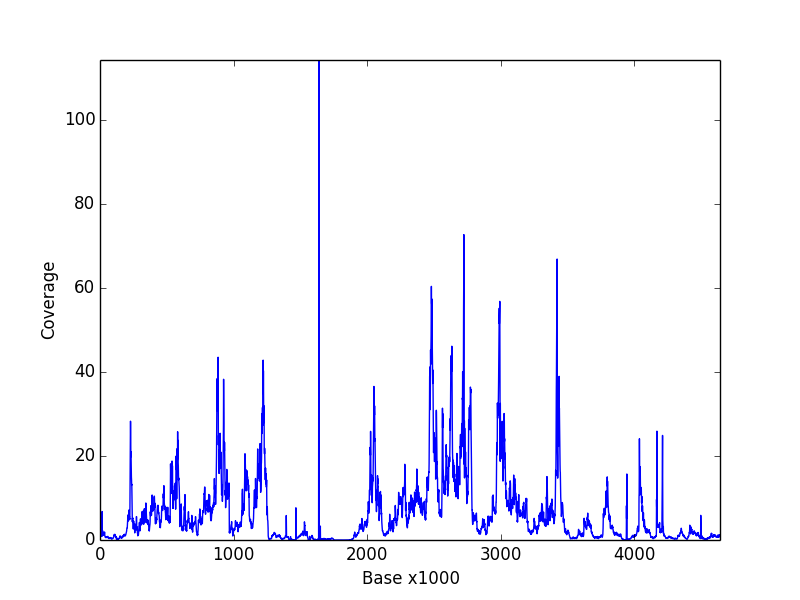
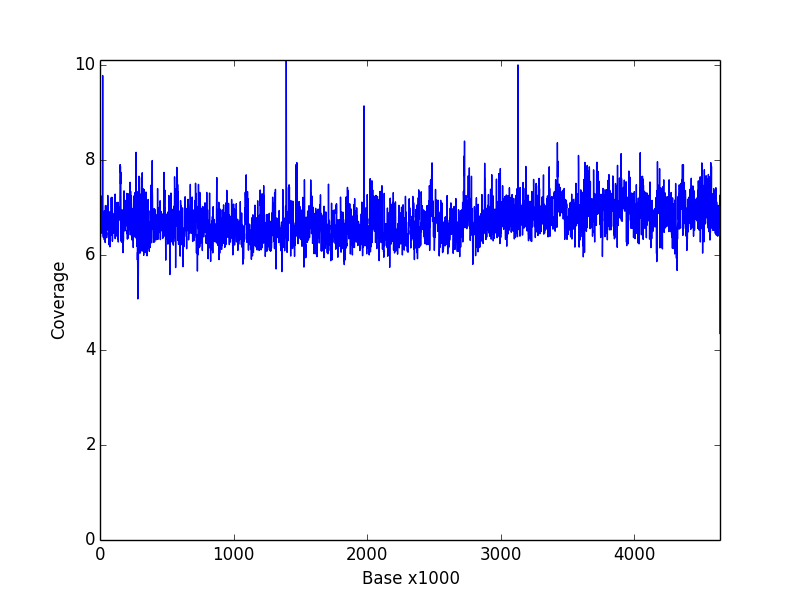
Fixed the grpah in hw2/1

diff --git a/src/hw2/hw2.py b/src/hw2/hw2.py
@@ -42,12 +42,16 @@ def get_genome_coverage(bam):
     length = get_reference_length(bam)
     regions = int(ceil(length * 1.0 / AVERAGE_STEP))
     coverage = [0 for _ in xrange(regions)]
+    covered_regions = 0
     for i in xrange(len(coverage)):
         left = i * AVERAGE_STEP
         right = left + AVERAGE_STEP
         for reference in bam.references:
             coverage[i] += bam.count(reference=reference, start=left, end=right)
         coverage[i] = coverage[i] * 1.0 / AVERAGE_STEP
+        if coverage[i] > 0:
+            covered_regions += 1
+    print("Covered genome rate: {0}".format(covered_regions * AVERAGE_STEP * 1.0 / length))
     plt.plot(range(0, len(coverage)), coverage)
     plt.ylabel('Coverage')
     plt.xlabel('Base x1000')
@@ -100,6 +104,18 @@ def get_insertion_size(bam):
     plt.clf()
 
 
+def get_mismatch_frequencies(bam):
+    mismatches = {"A": {"C": 0, "T": 0, "G": 0},
+                  "C": {"A": 0, "T": 0, "G": 0},
+                  "G": {"C": 0, "T": 0, "A": 0},
+                  "T": {"C": 0, "A": 0, "G": 0}}
+
+    for read in bam.fetch():
+        print(read)
+
+    print(mismatches)
+
+
 if __name__ == '__main__':
     if len(argv) < 3:
         print("No paths to BAM files")
@@ -108,9 +124,12 @@ if __name__ == '__main__':
     make_result_dir()
 
     bam_path = argv[1]
-    mode = argv[2] == "1"
+    mode = int(argv[2])
+    tasks = {1: get_genome_coverage,
+             2: get_insertion_size,
+             3: get_mismatch_frequencies}
+    if 1 > mode >= 3:
+        print("Invalid task (valid 1-3)")
+        exit(2)
     with pysam.AlignmentFile(bam_path, "rb") as bamfile:
-        if mode:
-            get_genome_coverage(bamfile)
-        else:
-            get_insertion_size(bamfile)
+        tasks[mode](bamfile)
